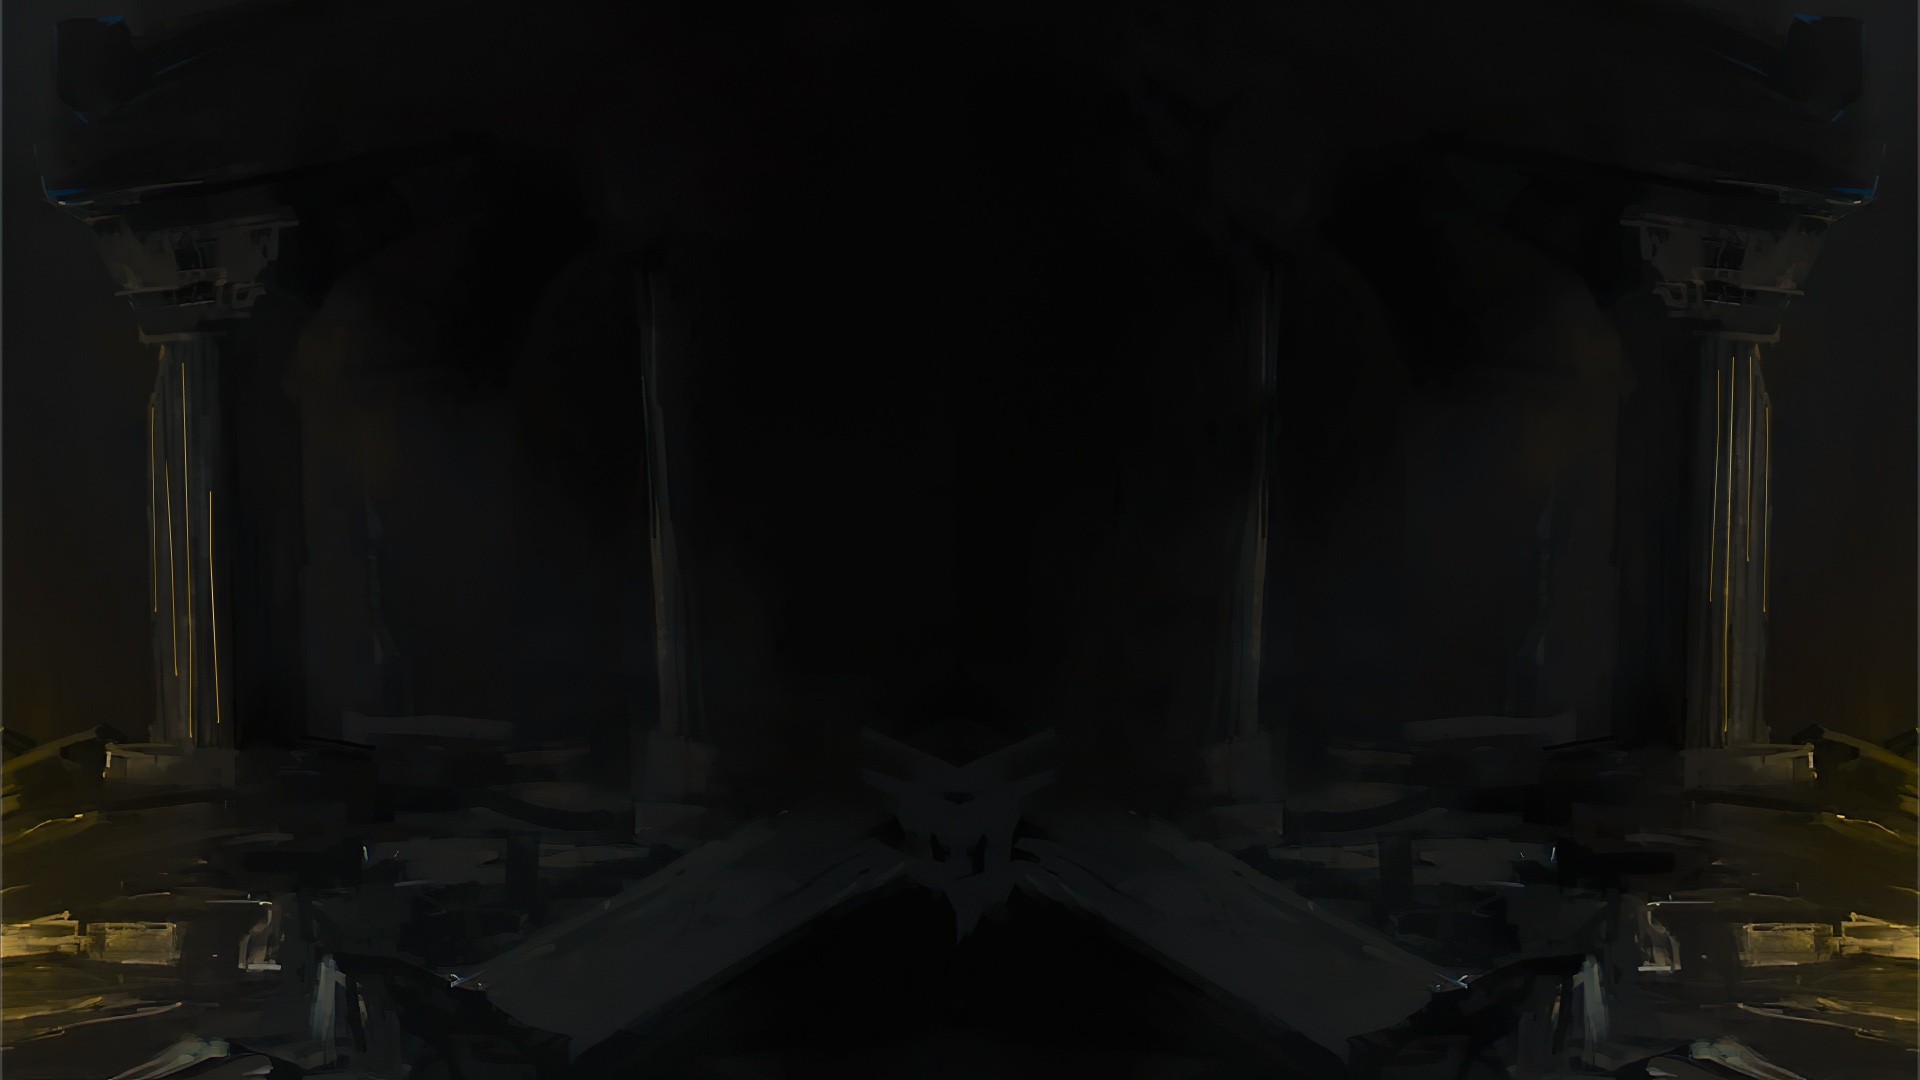
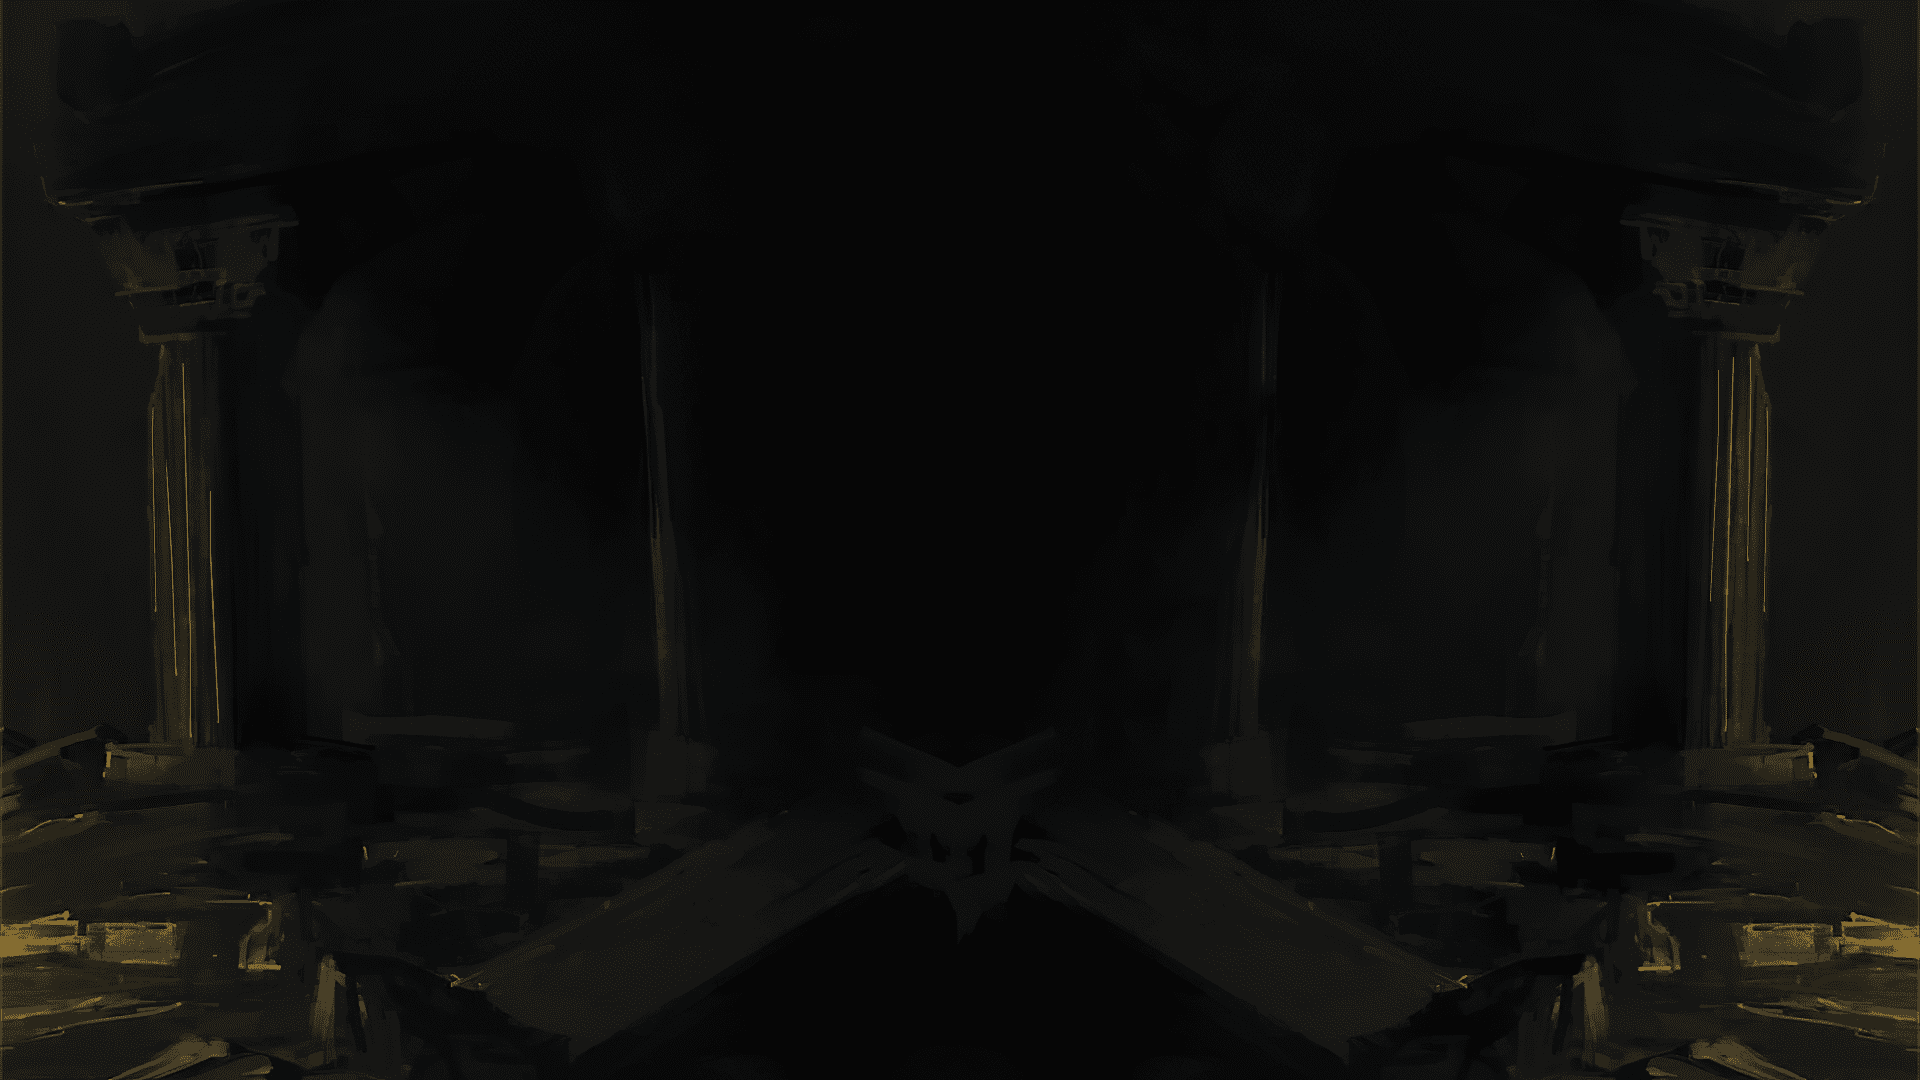
compressed background image

diff --git a/src/App.css b/src/App.css
@@ -11,6 +11,9 @@
 body {
   overflow-x: hidden;
   background-color: black;
+  background: url(Assets/wallsbg.png) repeat center center;
+  background-size: 100%;
+  height: max-content;
 }
 
 img {

diff --git a/src/styles/Contact.module.css b/src/styles/Contact.module.css
@@ -4,7 +4,7 @@
   color: white;
   flex-direction: column;
   align-items: center;
-  background-color: black;
+  /* background-color: black; */
   overflow-x: hidden;
 }
 

diff --git a/src/styles/Events.module.css b/src/styles/Events.module.css
@@ -1,5 +1,5 @@
 .eventSec {
-  background-color: black;
+  /* background-color: black; */
   display: flex;
   flex-direction: column;
   justify-content: center;
